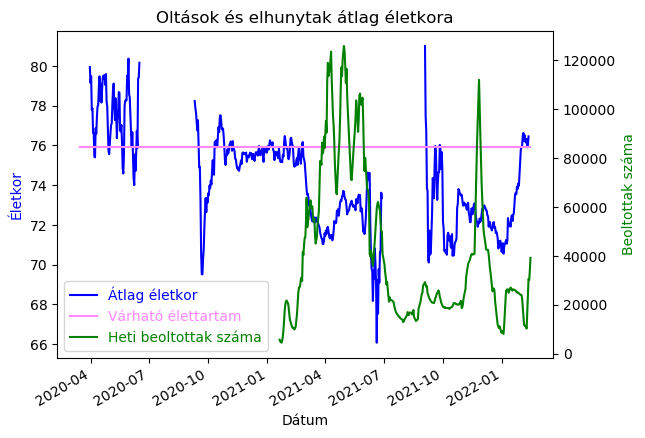
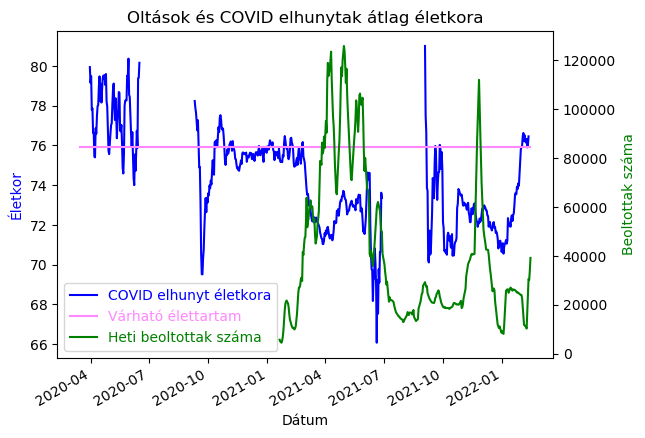
Misspell

Changed region(s): [[0.093, 0.6233, 0.4341, 0.7123], [0.186, 0.0, 0.7442, 0.0594], [0.4031, 0.7717, 0.4341, 0.8014]]

diff --git a/kép_covid_oltottak_vs_elhunytak_átlag_életkora.py b/kép_covid_oltottak_vs_elhunytak_átlag_életkora.py
@@ -55,12 +55,12 @@ par = host.twinx()
 
 host.set_xlabel("Dátum")
 host.set_ylabel("Életkor")
-host.set_title("Oltások és elhunytak átlag életkora")
+host.set_title("Oltások és COVID elhunytak átlag életkora")
 #host.set_ylim([0, 17000])
 par.set_ylabel("Beoltottak száma")
 #par.set_ylim([0, 23800])
 
-p1, = host.plot(dfgrp['Dátum'], dfgrp['Átlag életkor'], label="Átlag életkor", color='blue')
+p1, = host.plot(dfgrp['Dátum'], dfgrp['Átlag életkor'], label="COVID elhunyt életkora", color='blue')
 p1b, = host.plot(dfgrp['Dátum'], dfgrp['Várható élettartam'], label="Várható élettartam", color='#FF88FF')
 p2, = par.plot(dfgrp['Dátum'], dfgrp['Heti beoltottak száma'], label="Heti beoltottak száma", color='green')
 
